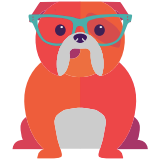
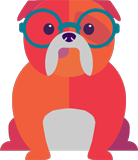
new branding

diff --git a/index.html b/index.html
@@ -19,48 +19,62 @@
   <div class="container-fluid">
     <div class="row">
       <div class="logo-holder col-md-12">
-        <img src="img/logo.png">
+        <img src="img/logo-w.png" class="logo">
       </div>
     </div>
 
     <div class="row">
       <div class="coming-soon col-md-12">
-        <span class="navy">C</span>
-        <span class="dark-teal">o</span>
-        <span class="red">m</span>
-        <span class="teal">i</span>
-        <span class="magenta">n</span>
-        <span class="orange">g</span>
+        <span>C</span>
+        <span>o</span>
+        <span>m</span>
+        <span>i</span>
+        <span>n</span>
+        <span>g</span>
         &nbsp;
-        <span class="pink">S</span>
-        <span class="light-orange">o</span>
-        <span class="teal">o</span>
-        <span class="purple">n</span>
+        <span>S</span>
+        <span>o</span>
+        <span>o</span>
+        <span>n</span>
       </div>
     </div>
 
     
-    <!-- Begin MailChimp Signup Form -->
-    <div id="mc_embed_signup" class="col-md-12">
-      <form action="http://hoyahacks.us11.list-manage.com/subscribe/post?u=f55885e2bcd3f02b15c63562a&amp;id=f639714c6d" method="post" id="mc-embedded-subscribe-form" name="mc-embedded-subscribe-form" class="validate" target="_blank" novalidate>
-        <div id="mc_embed_signup_scroll">
-          <div class="row">
-            <div class="mc-field-group">
-              <!-- <label for="mce-EMAIL">Email Address </label> -->
-              <input type="email" value="" name="EMAIL" class="required email" id="mce-EMAIL" placeholder="Your .edu email">
+    <div class="row">
+      <!-- Begin MailChimp Signup Form -->
+      <div id="mc_embed_signup" class="col-md-12">
+        <form action="http://hoyahacks.us11.list-manage.com/subscribe/post?u=f55885e2bcd3f02b15c63562a&amp;id=f639714c6d" method="post" id="mc-embedded-subscribe-form" name="mc-embedded-subscribe-form" class="validate" target="_blank" novalidate>
+          <div id="mc_embed_signup_scroll">
+            <div class="row">
+              <div class="mc-field-group">
+                <!-- <label for="mce-EMAIL">Email Address </label> -->
+                <input type="email" value="" name="EMAIL" class="required email" id="mce-EMAIL" placeholder="Your .edu email">
+              </div>
+              <div id="mce-responses" class="clear">
+                <div class="response" id="mce-error-response" style="display:none"></div>
+                <div class="response" id="mce-success-response" style="display:none"></div>
+              </div> 
             </div>
-            <div id="mce-responses" class="clear">
-              <div class="response" id="mce-error-response" style="display:none"></div>
-              <div class="response" id="mce-success-response" style="display:none"></div>
-            </div> 
+            <!-- real people should not fill this in and expect good things - do not remove this or risk form bot signups-->
+            <div class="row">
+              <div style="position: absolute; left: -5000px;"><input type="text" name="b_f55885e2bcd3f02b15c63562a_f639714c6d" tabindex="-1" value=""></div>
+              <div class="clear text-center"><input type="submit" value="Subscribe" name="subscribe" id="mc-embedded-subscribe" class="button btn"></div>
+            </div>
           </div>
-          <!-- real people should not fill this in and expect good things - do not remove this or risk form bot signups-->
-          <div class="row">
-            <div style="position: absolute; left: -5000px;"><input type="text" name="b_f55885e2bcd3f02b15c63562a_f639714c6d" tabindex="-1" value=""></div>
-            <div class="clear text-center"><input type="submit" value="Subscribe" name="subscribe" id="mc-embedded-subscribe" class="button btn"></div>
-          </div>
+        </form>
+      </div>
+    </div>
+
+    <div class="row">
+      <div class="col-md-12 contact-us">
+        <div class="bulldog-tease">
+          <img src="img/bulldog.png">
         </div>
-      </form>
+        <div class="questions">
+          <span class="bold">Questions? Want to sponsor?</span><br>
+          Shoot us a note at <a href="mailto:hello@hoyahacks.com" class="contact-email">hello@hoyahacks.com</a>
+        </div>
+      </div>
     </div>
 
   </div>

diff --git a/css/styles.css b/css/styles.css
@@ -3,7 +3,9 @@
 body {
     font-family: 'Open Sans', sans-serif;
     text-align: center;
-    color: #202f57;
+    color: #fff;
+    background: rgb(42,42,42);
+    background: url(../img/bg-blue.jpg);
 }
 
 .navy { color: #202f57; }
@@ -16,17 +18,20 @@ body {
 .pink { color: #d63756; }
 .light-orange { color: #ed6f40; }
 .success { color: #0fd016; }
+.bold { font-weight: 700; }
 
 img {
     max-height: 100%;
 }
 
 .logo-holder {
-    margin-top: 1em;
+    margin-top: 6em;
+    opacity: 0.5;
 }
 
 .logo-holder img {
     max-width: 100%;
+    width: 1000px;
 }
 
 .btn {
@@ -50,11 +55,40 @@ input:focus {
     margin-bottom: 0.8em;
     text-transform: uppercase;
     font-size: 4em;
+    opacity: 0.2;
 }
 
 #messages {
     min-height: 1.4em;
     font-size: 2em;
+}
+
+.contact-us {
+    margin-top: 100px;
+    background: rgb(42, 42, 42);
+    padding: 3em;
+}
+
+.questions {
+    display: inline-block;
+    text-align: left;
+    font-size: 1.5em;
+    opacity: 0.8;
+}
+
+.bulldog-tease {
+    display: inline-block;
+    padding-right: 1em;
+    opacity:  .8;
+}
+
+.contact-email {
+    color: #fff;
+    text-decoration: underline;
+}
+
+.contact-email:hover {
+    color: #fff;
 }
 
 @media only screen and (max-width : 767px){

diff --git a/css/mailchimp.css b/css/mailchimp.css
@@ -1,5 +1,4 @@
 #mc_embed_signup {
-    background: #fff;
     clear: left;
 }
 
@@ -30,6 +29,9 @@
     height: auto;
     padding: 0.7em 1.2em;
     margin: 0.5em 0 0;
+}
+#mc_embed_signup .button:hover {
+    background: #ed6f40;
 }
 
 #mc_embed_signup .mc-field-group {
